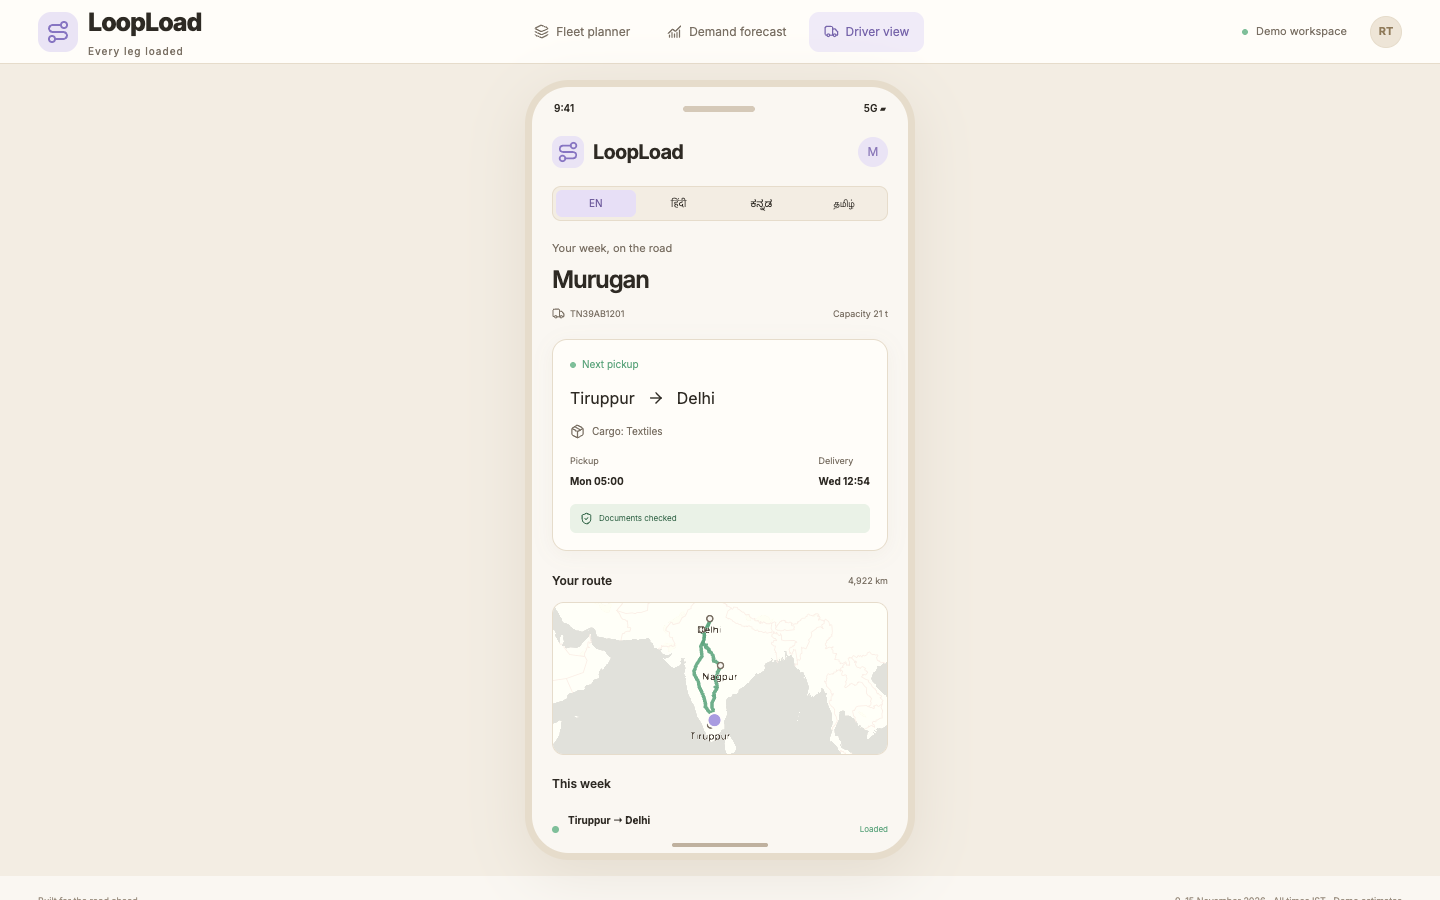
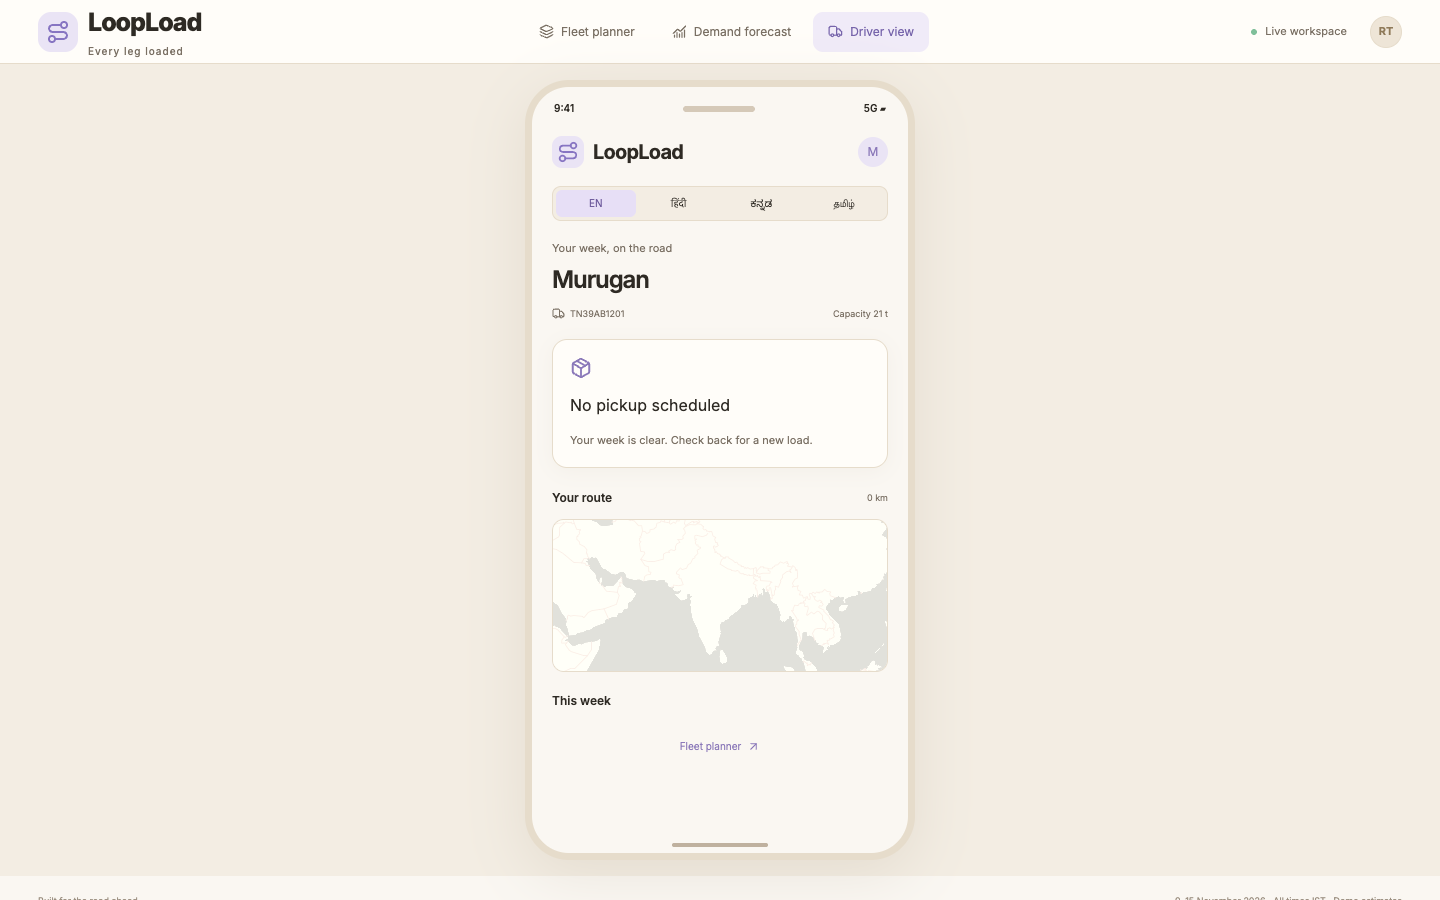
Fill and lock India map, hide basemap labels and refresh live screenshots

diff --git a/frontend/src/RouteMap.tsx b/frontend/src/RouteMap.tsx
@@ -9,15 +9,16 @@ import {
 import { TripsLayer } from "@deck.gl/geo-layers";
 import type { PathStyleExtensionProps } from "@deck.gl/extensions";
 import { PathStyleExtension } from "@deck.gl/extensions";
-import { Map } from "react-map-gl/maplibre";
+import { Map, type MapRef } from "react-map-gl/maplibre";
 import {
   WebMercatorViewport,
   type MapViewState,
   type PickingInfo,
 } from "@deck.gl/core";
 import type { Scenario, Plan, Leg, Forecast, City } from "./types";
-import { money, num } from "./format";
+import { money, num, explanation } from "./format";
 import "maplibre-gl/dist/maplibre-gl.css";
+import { Sparkles } from "lucide-react";
 interface Props {
   scenario: Scenario;
   plan: Plan;
@@ -30,6 +31,14 @@ interface Props {
   hot?: Forecast[];
   mini?: boolean;
 }
+const INDIA_BOUNDS: [[number, number], [number, number]] = [
+  [68, 6],
+  [92, 36],
+];
+const MAX_BOUNDS: [[number, number], [number, number]] = [
+  [60, 2],
+  [100, 38],
+];
 type LegGroups = { loaded: Leg[]; empty: Leg[] };
 type TruckPosition = { truck_id: string; position: [number, number] };
 function splitLegs(legs: Leg[]): LegGroups {
@@ -78,24 +87,75 @@ export default function RouteMap({
   const [mapFailed, setMapFailed] = useState(false);
   const [mapReady, setMapReady] = useState(false);
   const mapRoot = useRef<HTMLDivElement>(null);
+  const mapRef = useRef<MapRef>(null);
+  const [initialZoom, setInitialZoom] = useState(mini ? 1.7 : 3);
+  const [basemapLabelCount, setBasemapLabelCount] = useState<number>();
   const [size, setSize] = useState({ width: 800, height: 360 });
   const [viewState, setViewState] = useState<MapViewState>({
-    longitude: 79,
-    latitude: mini ? 19 : 20,
-    zoom: mini ? 2 : hot ? 3 : 3.3,
+    longitude: 80,
+    latitude: 22,
+    zoom: mini ? 1.7 : 3,
+    minZoom: mini ? 1.7 : 3,
+    maxZoom: 7,
     pitch: 0,
     bearing: 0,
   });
   useEffect(() => {
-    const observer = new ResizeObserver(([entry]) =>
-      setSize({
-        width: entry.contentRect.width,
-        height: entry.contentRect.height,
-      }),
-    );
+    let frame = 0;
+    const resize = () => {
+      const bounds = mapRoot.current?.getBoundingClientRect();
+      if (bounds?.width && bounds.height)
+        setSize({ width: bounds.width, height: bounds.height });
+      cancelAnimationFrame(frame);
+      frame = requestAnimationFrame(() => mapRef.current?.getMap().resize());
+    };
+    const observer = new ResizeObserver(resize);
     if (mapRoot.current) observer.observe(mapRoot.current);
-    return () => observer.disconnect();
+    window.addEventListener("resize", resize);
+    resize();
+    return () => {
+      observer.disconnect();
+      window.removeEventListener("resize", resize);
+      cancelAnimationFrame(frame);
+    };
   }, []);
+  useEffect(() => {
+    if (!size.width || !size.height) return;
+    const fit = new WebMercatorViewport(size).fitBounds(INDIA_BOUNDS, {
+      padding: mini ? 8 : 16,
+    });
+    setInitialZoom(fit.zoom);
+    setViewState({
+      longitude: 80,
+      latitude: 22,
+      zoom: fit.zoom,
+      minZoom: fit.zoom,
+      maxZoom: 7,
+      pitch: 0,
+      bearing: 0,
+    });
+    const frame = requestAnimationFrame(() =>
+      mapRef.current?.getMap().resize(),
+    );
+    return () => cancelAnimationFrame(frame);
+  }, [size, mini]);
+  const constrainView = (next: MapViewState): MapViewState => ({
+    ...next,
+    // One controlled camera keeps MapLibre and deck.gl aligned at every zoom.
+    longitude: Math.max(
+      MAX_BOUNDS[0][0],
+      Math.min(MAX_BOUNDS[1][0], next.longitude),
+    ),
+    latitude: Math.max(
+      MAX_BOUNDS[0][1],
+      Math.min(MAX_BOUNDS[1][1], next.latitude),
+    ),
+    zoom: Math.max(initialZoom, Math.min(7, next.zoom)),
+    minZoom: initialZoom,
+    maxZoom: 7,
+    pitch: 0,
+    bearing: 0,
+  });
   // Cull only overlapping labels in screen space; keep every city dot available.
   // This also works with software WebGL and does not alter basemap rendering.
   const labelCities = useMemo(() => {
@@ -121,10 +181,10 @@ export default function RouteMap({
         const [x, y] = viewport.project([c.lon, c.lat]);
         const width = c.name.length * (mini ? 6.5 : 7.5) + 8;
         const box = {
-          left: x - width / 2,
-          right: x + width / 2,
-          top: y + 3,
-          bottom: y + (mini ? 20 : 23),
+          left: x + 12,
+          right: x + 12 + width,
+          top: y + 8,
+          bottom: y + (mini ? 25 : 28),
         };
         if (
           box.left < 4 ||
@@ -285,10 +345,10 @@ export default function RouteMap({
         characterSet: "auto",
         fontSettings: { sdf: true },
         getColor: [74, 66, 56],
-        getPixelOffset: [0, 11],
+        getPixelOffset: [12, 16],
         fontWeight: 500,
         fontFamily: "Inter, sans-serif",
-        getTextAnchor: "middle",
+        getTextAnchor: "start",
         outlineWidth: 0.12,
         outlineColor: [250, 247, 242, 230],
       }),
@@ -319,6 +379,13 @@ export default function RouteMap({
     <div
       ref={mapRoot}
       data-testid="map-canvas"
+      data-min-zoom={initialZoom.toFixed(4)}
+      data-max-zoom="7"
+      data-max-bounds="60,2,100,38"
+      data-view-zoom={viewState.zoom.toFixed(4)}
+      data-view-longitude={viewState.longitude.toFixed(4)}
+      data-view-latitude={viewState.latitude.toFixed(4)}
+      data-basemap-labels-visible={basemapLabelCount}
       data-transition-progress={blend.toFixed(4)}
       data-transitioning={Boolean(previous)}
       data-basemap-status={
@@ -329,25 +396,39 @@ export default function RouteMap({
       <DeckGL
         viewState={viewState}
         onViewStateChange={({ viewState }) =>
-          setViewState(viewState as MapViewState)
+          setViewState(constrainView(viewState as MapViewState))
         }
-        controller
+        controller={{ dragRotate: false, touchRotate: false }}
         layers={layers}
         getCursor={({ isHovering }) => (isHovering ? "pointer" : "grab")}
       >
         <Map
+          ref={mapRef}
+          style={{
+            position: "absolute",
+            inset: 0,
+            width: "100%",
+            height: "100%",
+          }}
+          minZoom={initialZoom}
+          maxZoom={7}
           mapStyle="https://basemaps.cartocdn.com/gl/positron-gl-style/style.json"
           attributionControl={false}
           onLoad={(e) => {
-            {
-              for (const layer of e.target.getStyle().layers || []) {
-                if (
-                  layer.type === "symbol" &&
-                  (mini || !layer.id.includes("country"))
-                )
-                  e.target.setLayoutProperty(layer.id, "visibility", "none");
-              }
+            const map = e.target;
+            for (const layer of map.getStyle().layers || []) {
+              if (layer.type === "symbol")
+                map.setLayoutProperty(layer.id, "visibility", "none");
             }
+            setBasemapLabelCount(
+              (map.getStyle().layers || []).filter(
+                (layer) =>
+                  layer.type === "symbol" &&
+                  map.getLayoutProperty(layer.id, "visibility") !== "none",
+              ).length,
+            );
+            map.resize();
+            requestAnimationFrame(() => map.resize());
           }}
           onIdle={() => setMapReady(true)}
           onError={() => setMapFailed(true)}
@@ -362,8 +443,8 @@ export default function RouteMap({
         <div
           className="map-tooltip"
           style={{
-            left: Math.min(hover.x + 16, 500),
-            top: Math.max(20, hover.y - 80),
+            left: Math.max(8, Math.min(hover.x + 16, size.width - 300)),
+            top: Math.max(10, Math.min(hover.y - 80, size.height - 160)),
           }}
         >
           <strong>
@@ -380,6 +461,12 @@ export default function RouteMap({
             {num(hover.object.distance_km)} km ·{" "}
             {money(hover.object.revenue_inr)}
           </span>
+          {hover.object.reason && (
+            <span className="tooltip-reason">
+              <Sparkles size={12} />
+              {explanation(hover.object.reason)}
+            </span>
+          )}
         </div>
       )}
     </div>

diff --git a/frontend/tests/map.spec.ts b/frontend/tests/map.spec.ts
@@ -1,0 +1,36 @@
+import { test, expect } from "@playwright/test";
+test("map fills its card, refits on resize, and keeps the India camera locked", async ({
+  page,
+}) => {
+  await page.goto("/");
+  await page.getByTestId("timeline-play").click();
+  const map = page.getByTestId("map-canvas");
+  await expect(map).toHaveAttribute("data-view-longitude", "80.0000");
+  await expect(map).toHaveAttribute("data-view-latitude", "22.0000");
+  await expect(map).toHaveAttribute("data-max-zoom", "7");
+  await expect(map).toHaveAttribute("data-max-bounds", "60,2,100,38");
+  const fills = () =>
+    map.evaluate((el) => {
+      const root = el.getBoundingClientRect();
+      const canvas = el
+        .querySelector(".maplibregl-canvas")!
+        .getBoundingClientRect();
+      return (
+        Math.abs(root.width - canvas.width) < 1 &&
+        Math.abs(root.height - canvas.height) < 1
+      );
+    });
+  await expect.poll(fills).toBeTruthy();
+  await map.hover();
+  await page.mouse.wheel(0, 3000);
+  await page.waitForTimeout(600);
+  expect(
+    Number(await map.getAttribute("data-view-zoom")),
+  ).toBeGreaterThanOrEqual(Number(await map.getAttribute("data-min-zoom")));
+  await page.setViewportSize({ width: 1280, height: 720 });
+  await expect.poll(fills).toBeTruthy();
+  await expect(map).toHaveAttribute("data-view-longitude", "80.0000");
+  await page.setViewportSize({ width: 390, height: 844 });
+  await expect.poll(fills).toBeTruthy();
+  await expect(map).toHaveAttribute("data-view-latitude", "22.0000");
+});

diff --git a/frontend/src/PlanHighlights.tsx b/frontend/src/PlanHighlights.tsx
@@ -1,5 +1,6 @@
 import { AnimatePresence, motion } from "framer-motion";
 import { Sparkles } from "lucide-react";
+import { explanation } from "./format";
 import type { Plan } from "./types";
 export default function PlanHighlights({ plan }: { plan: Plan }) {
   const highlights =
@@ -25,14 +26,14 @@ export default function PlanHighlights({ plan }: { plan: Plan }) {
               <motion.article
                 key={i}
                 className={`highlight-card tone-${i}`}
-                title={text}
+                title={explanation(text)}
                 variants={{
                   hidden: { opacity: 0, y: 6 },
                   visible: { opacity: 1, y: 0, transition: { duration: 0.3 } },
                 }}
               >
                 <Sparkles size={11} aria-hidden="true" />
-                <span>{text}</span>
+                <span>{explanation(text)}</span>
               </motion.article>
             ))}
           </motion.div>

diff --git a/frontend/src/main.tsx b/frontend/src/main.tsx
@@ -47,7 +47,7 @@ import {
 } from "recharts";
 import { api, mockMode } from "./api";
 import type { Scenario, Plan, Compare, Forecast, Leg, Truck } from "./types";
-import { money, num, compact, dayTime } from "./format";
+import { money, num, compact, dayTime, explanation } from "./format";
 import RouteMap from "./RouteMap";
 import PlanHighlights from "./PlanHighlights";
 import { i18n, type Language } from "./i18n";
@@ -1036,7 +1036,7 @@ function LegCard({ leg, scenario }: { leg: Leg; scenario: Scenario }) {
       {leg.reason && (
         <p className="leg-reason">
           <Sparkles size={13} aria-hidden="true" />
-          <span>{leg.reason}</span>
+          <span>{explanation(leg.reason)}</span>
         </p>
       )}
       {leg.compliance ? (

diff --git a/frontend/src/format.ts b/frontend/src/format.ts
@@ -12,3 +12,9 @@ export const dayTime = (h: number) => {
   const day = Math.floor(minutes / 1440);
   return `${["Mon", "Tue", "Wed", "Thu", "Fri", "Sat", "Sun"][day % 7]} ${String(Math.floor(minutes / 60) % 24).padStart(2, "0")}:${String(minutes % 60).padStart(2, "0")}${day >= 7 ? ` (+${Math.floor(day / 7)}w)` : ""}`;
 };
+
+// Optional API explanations are prose, but their rupee amounts still use en-IN.
+export const explanation = (text: string) =>
+  text.replace(/₹\s*([+-]?\d[\d,]*(?:\.\d+)?)/g, (_, value: string) =>
+    money(Number(value.replaceAll(",", ""))),
+  );

diff --git a/frontend/src/styles.css b/frontend/src/styles.css
@@ -2144,3 +2144,26 @@ select {
     display: none;
   }
 }
+/* The basemap and deck canvas occupy the entire card; no clipping or side masks. */
+.map-canvas {
+  position: absolute;
+  inset: 0;
+  width: 100%;
+  height: 100%;
+  min-width: 0;
+  min-height: 0;
+}
+.map-canvas .maplibregl-map {
+  position: absolute;
+  inset: 0;
+  width: 100%;
+  height: 100%;
+}
+/* Let longer API highlights wrap beside the icon without clipping their last line. */
+.highlight-card {
+  display: block;
+}
+.highlight-card > svg {
+  float: left;
+  margin: 1px 4px 0 0;
+}

diff --git a/frontend/screenshots/README.md b/frontend/screenshots/README.md
@@ -1,10 +1,16 @@
-# Visual QA — 1440 × 900
+# Live visual QA — 1440 × 900
 
-Captured in mock mode using Playwright Chromium, with the light theme, Inter loaded, and CARTO Positron loaded. All PNGs are exactly 1440 × 900 at 1× device scale.
+Captured against the real API at `http://localhost:8000`, with `VITE_USE_MOCKS=false`. All PNGs are exactly 1440 × 900 at 1× device scale. The capture rejects API fallback, waits for Inter and CARTO Positron, checks that the basemap canvas fills its card, and verifies that all basemap symbol labels are hidden.
 
-- `dashboard.png`: baseline, playback paused at Monday 08:00; includes pooling and owner filter.
-- `truck-drawer-T01.png`: AI plan, T01's four loaded legs and full-week Gantt; the leg list scrolls.
-- `forecast.png`: all eight hot lanes, the latest 16 historical weeks, forecast confidence band, and hot-lane map.
-- `driver-T01.png`: English driver view in the 390 × 780 phone frame; its week list scrolls inside the phone.
+- `dashboard.png`: baseline, paused at Monday 08:00; all impact, comparison, fleet and pooling panels fit the projector viewport.
+- `dashboard-ai.png`: AI mode, settled counters, three plan highlights, and absolute weekly/per-truck profit.
+- `truck-drawer-T01.png`: the real AI result for T01. The current backend leaves T01 idle.
+- `truck-drawer-T04.png`: the actual hero loop returned by the current backend, including per-leg reasons and compliance warnings.
+- `forecast.png`: all eight hot lanes, 16 historical weeks, the forecast confidence band, and the full-card map.
+- `driver-T01.png`: the real T01 driver view and its no-pickup state, inside the 390 × 780 phone frame.
 
-To refresh, start `npm run dev` in `frontend/`, then run `npm run qa:visual`. The capture script verifies there is no horizontal overflow and that dashboard panels, forecast panels, and phone fit inside the projector viewport. Set `QA_BASE_URL` to capture a different local server.
+The API currently assigns the four hero loads to **T04**, rather than T01. The UI follows the returned plan without substituting mock trips. Mock mode still retains the requested T01 hero loop.
+
+The map refits on container/window resize, starts near 80°E / 22°N, and uses that fitted zoom as its minimum. Zoom is capped at 7 and the controlled camera is bounded to 60–100°E / 2–38°N. The basemap covers the entire card, including neighbouring land and sea, with only LoopLoad's city labels shown.
+
+To refresh, start the real backend and `npm run dev` in `frontend/`, then run `npm run qa:visual`. Set `QA_BASE_URL` to use a different local frontend server. The script also checks horizontal overflow and panel/phone bounds at 1440 × 900.
